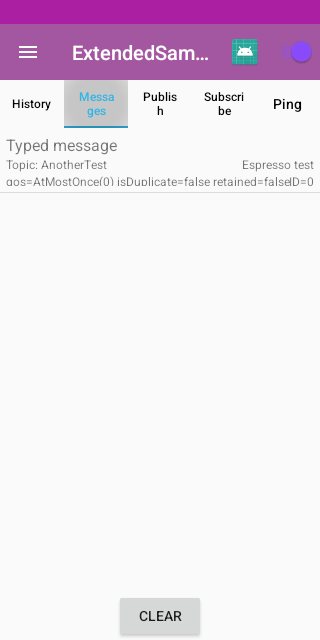
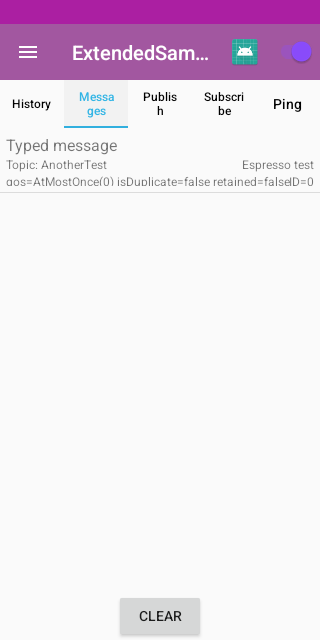
More wait

Changed region(s): [[0.1875, 0.125, 0.4062, 0.2188]]

diff --git a/extendedSample/src/androidTest/java/info/mqtt/android/extsample/activity/ExtendedPublishTest.kt b/extendedSample/src/androidTest/java/info/mqtt/android/extsample/activity/ExtendedPublishTest.kt
@@ -86,7 +86,7 @@ class ExtendedPublishTest {
         onView(withId(2)).perform(click())
         onView(withId(R.id.topic)).perform(replaceText(TOPIC))
         onView(withId(R.id.message)).perform(replaceText("Typed message"))
-        sleep(200)
+        sleep(400)
         onView(isRoot())
             .perform(captureToBitmap { bitmap: Bitmap ->
                 bitmap.writeToTestStorage("${javaClass.simpleName}_${nameRule.methodName}-4publish")
@@ -96,6 +96,7 @@ class ExtendedPublishTest {
         onView(withId(1)).perform(click())
 
         WaitingAssertion.checkAssertion(R.id.history_list_view, Matchers.withListSizeBigger(0), 2500)
+        sleep(400)
         onView(isRoot())
             .perform(captureToBitmap { bitmap: Bitmap ->
                 bitmap.writeToTestStorage("${javaClass.simpleName}_${nameRule.methodName}-6End")
@@ -112,6 +113,7 @@ class ExtendedPublishTest {
         onView(withId(R.id.disConnectSwitch)).check(matches(isChecked()))
 
         onView(withId(R.id.disConnectSwitch)).perform(click())
+        sleep(400)
         onView(isRoot())
             .perform(captureToBitmap { bitmap: Bitmap ->
                 bitmap.writeToTestStorage("${javaClass.simpleName}_${nameRule.methodName}-isDisConnected")
@@ -120,6 +122,7 @@ class ExtendedPublishTest {
         onView(withId(R.id.disConnectSwitch)).check(matches(not(isChecked())))
 
         onView(withId(R.id.disConnectSwitch)).perform(click())
+        sleep(400)
         onView(isRoot())
             .perform(captureToBitmap { bitmap: Bitmap ->
                 bitmap.writeToTestStorage("${javaClass.simpleName}_${nameRule.methodName}-isConnectedAgain")
